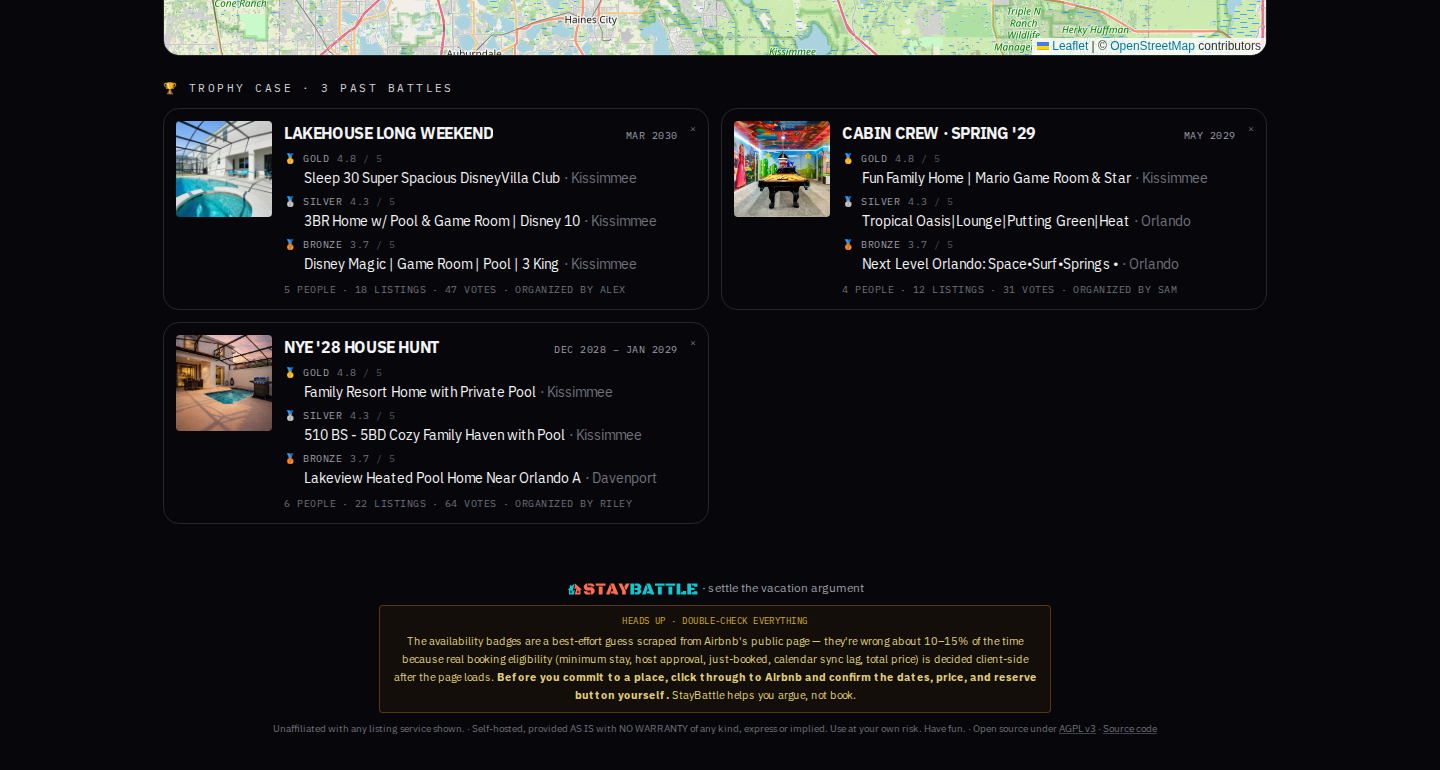
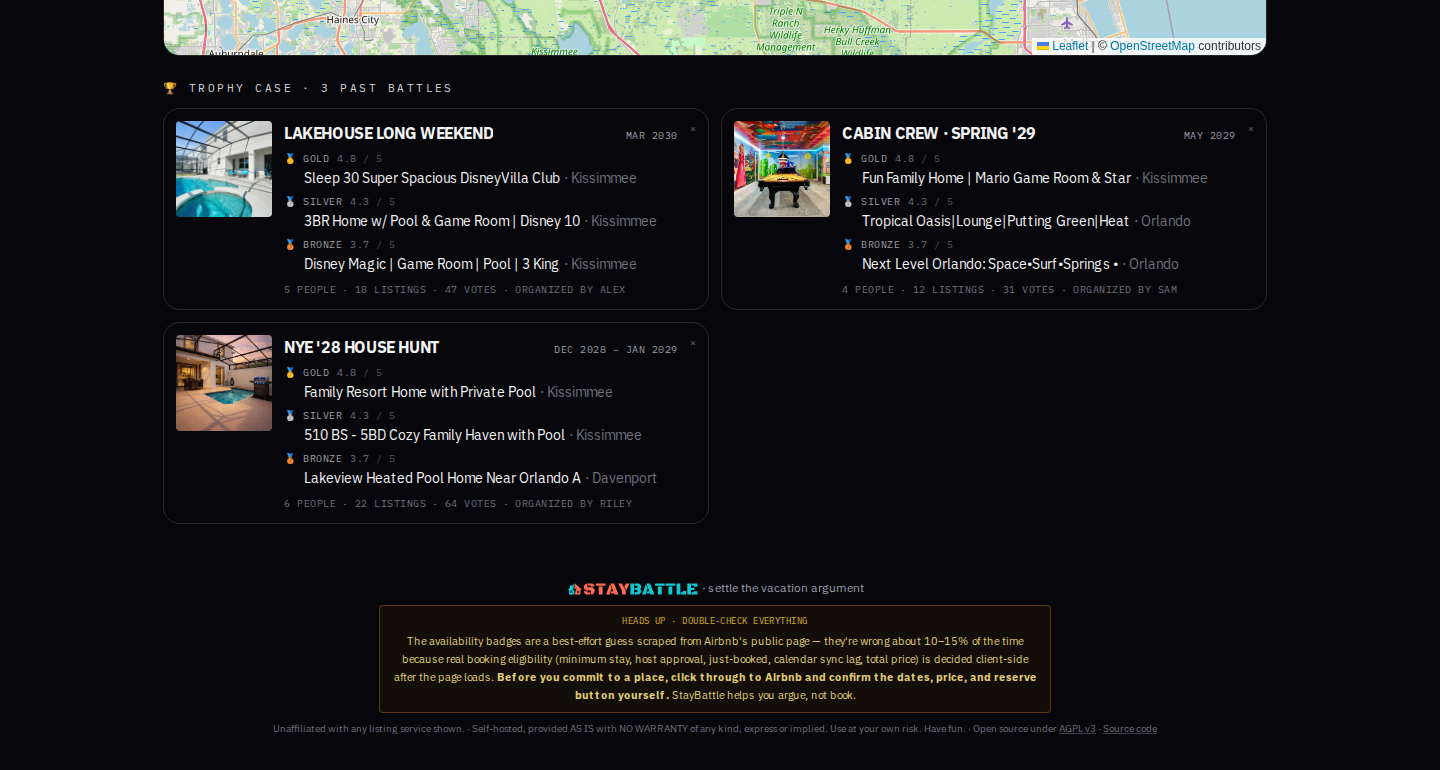
Categorize reference places — color-coded pins + chip-row picker
Drops the single hardcoded "reference" kind in favor of a curated
10-category set in `src/lib/place-categories.ts`:

  theme-park · restaurant · bar · beach · museum · airport ·
  grocery · nature · shopping · other

Drop-a-pin form picks up a chip-row picker (default "Other"); markers
render as color-coded dots with the category emoji centered. Legacy
rows with kind = "reference" resolve to "Other" through
`resolvePlaceCategory()` so no migration is needed.

Server `addPlaceAtCoords` whitelists `kind` against the known set —
unknown values fall back to "other" so a bad client can't poison the
row.

Seed: ten Orlando-area reference places across all categories so the
map screenshot shows the new color variety.

Changed region(s): [[0.0938, 0.0, 0.9062, 0.0935]]

diff --git a/src/components/MapView.tsx b/src/components/MapView.tsx
@@ -11,6 +11,11 @@ import { withTripDates, type TripDates } from "@/lib/trip";
 import { shortDisplayName } from "@/lib/title";
 import { confirmDialog } from "./Modal";
 import type { ListingWithStats, Place } from "@/lib/types";
+import {
+  PLACE_CATEGORIES,
+  resolvePlaceCategory,
+  type PlaceCategoryId,
+} from "@/lib/place-categories";
 
 // Default fallback icon (the standard leaflet teardrop) — only used if a
 // listing has no availability status info at all.
@@ -58,20 +63,31 @@ function listingPin(status: "available" | "unavailable" | "unknown") {
   });
 }
 
-// Reference-place marker. NOTE: divIcon's `html` is interpreted as raw HTML —
-// only put static markup here. Never interpolate user-controlled strings into
-// this template or you've created a stored-XSS sink.
-const PlaceIcon = L.divIcon({
-  className: "",
-  html: `<div style="
-    width: 18px; height: 18px; border-radius: 50%;
-    background: #fbbf24; border: 2px solid white;
-    box-shadow: 0 0 0 1px rgba(0,0,0,0.25);
-  "></div>`,
-  iconSize: [18, 18],
-  iconAnchor: [9, 9],
-  popupAnchor: [0, -10],
-});
+// Reference-place marker. The fill color comes from the curated category
+// list — only the color hex is interpolated, and it's drawn from the
+// hard-coded PLACE_CATEGORIES table (no user input ever flows into this
+// HTML, so the stored-XSS sink is closed by construction).
+const PLACE_ICON_CACHE = new Map<string, L.DivIcon>();
+function placeIcon(kind: string | null | undefined): L.DivIcon {
+  const cat = resolvePlaceCategory(kind);
+  const cached = PLACE_ICON_CACHE.get(cat.id);
+  if (cached) return cached;
+  const icon = L.divIcon({
+    className: "",
+    html: `<div style="
+      width: 22px; height: 22px; border-radius: 50%;
+      background: ${cat.color}; border: 2px solid white;
+      box-shadow: 0 0 0 1px rgba(0,0,0,0.25);
+      display: flex; align-items: center; justify-content: center;
+      font-size: 11px; line-height: 1;
+    ">${cat.emoji}</div>`,
+    iconSize: [22, 22],
+    iconAnchor: [11, 11],
+    popupAnchor: [0, -12],
+  });
+  PLACE_ICON_CACHE.set(cat.id, icon);
+  return icon;
+}
 
 /**
  * Run an initial fit-to-points exactly once when the map first has data,
@@ -193,6 +209,7 @@ export default function MapView({
   const [pendingName, setPendingName] = useState("");
   const [pendingAddress, setPendingAddress] = useState("");
   const [pendingUrl, setPendingUrl] = useState("");
+  const [pendingKind, setPendingKind] = useState<PlaceCategoryId>("other");
   const [isAddingPlace, startAddPlace] = useTransition();
   // Imperative handle so the "fit all" button can refit on demand without
   // triggering automatic refits via useEffect dependencies.
@@ -204,6 +221,7 @@ export default function MapView({
     setPendingName("");
     setPendingAddress("");
     setPendingUrl("");
+    setPendingKind("other");
   };
 
   const cancelPendingPin = () => {
@@ -211,6 +229,7 @@ export default function MapView({
     setPendingName("");
     setPendingAddress("");
     setPendingUrl("");
+    setPendingKind("other");
   };
 
   const submitPendingPin = () => {
@@ -225,6 +244,7 @@ export default function MapView({
         pendingPin.lat,
         pendingPin.lng,
         voter?.name || "",
+        pendingKind,
       );
       if (res.ok) {
         cancelPendingPin();
@@ -378,6 +398,33 @@ export default function MapView({
                   maxLength={500}
                   className="w-full rounded-sm border border-zinc-800 bg-zinc-950 px-2 py-1 text-xs text-zinc-100 placeholder:text-zinc-500 outline-none focus:border-rose-400"
                 />
+                <div
+                  role="radiogroup"
+                  aria-label="Category"
+                  className="flex flex-wrap gap-1"
+                >
+                  {PLACE_CATEGORIES.map((c) => {
+                    const selected = c.id === pendingKind;
+                    return (
+                      <button
+                        key={c.id}
+                        type="button"
+                        role="radio"
+                        aria-checked={selected}
+                        onClick={() => setPendingKind(c.id)}
+                        title={c.label}
+                        className={`inline-flex items-center gap-1 rounded-sm border px-1.5 py-0.5 font-mono text-[10px] uppercase tracking-wider transition ${
+                          selected
+                            ? "border-rose-400 bg-rose-500/15 text-rose-100"
+                            : "border-zinc-800 bg-zinc-950 text-zinc-400 hover:border-zinc-600 hover:text-zinc-200"
+                        }`}
+                      >
+                        <span aria-hidden="true">{c.emoji}</span>
+                        <span>{c.label}</span>
+                      </button>
+                    );
+                  })}
+                </div>
                 <p className="font-mono text-[9px] uppercase tracking-wider text-zinc-500">
                   {pendingPin.lat.toFixed(4)}, {pendingPin.lng.toFixed(4)}
                 </p>
@@ -481,7 +528,7 @@ export default function MapView({
           <Marker
             key={p.id}
             position={[p.latitude, p.longitude]}
-            icon={PlaceIcon}
+            icon={placeIcon(p.kind)}
             title={p.name}
           >
             <Popup>
@@ -494,7 +541,8 @@ export default function MapView({
                 )}
                 <div className="flex flex-col gap-0.5 font-mono text-[10px] uppercase tracking-wider text-zinc-500">
                   <span>
-                    📌 reference pin
+                    <span aria-hidden="true">{resolvePlaceCategory(p.kind).emoji}</span>{" "}
+                    {resolvePlaceCategory(p.kind).label}
                     {p.added_by_name && (
                       <>
                         <span className="mx-1">·</span>added by{" "}

diff --git a/src/lib/place-categories.ts b/src/lib/place-categories.ts
@@ -1,0 +1,61 @@
+/**
+ * Curated category set for dropped reference places on the map.
+ *
+ * Categories drive both the picker in the drop-pin form and the marker
+ * color/emoji on the map, so 30 pins in Orlando still scan as "theme
+ * parks vs. groceries vs. airports" at a glance.
+ *
+ * `id` is what we persist in `places.kind`. The legacy value `"reference"`
+ * predates this list and is treated as `"other"` for display.
+ *
+ * `color` is the marker dot fill. Picked for hue separation at small
+ * sizes — adjacent categories on this list should not look alike.
+ */
+export type PlaceCategoryId =
+  | "theme-park"
+  | "restaurant"
+  | "bar"
+  | "beach"
+  | "museum"
+  | "airport"
+  | "grocery"
+  | "nature"
+  | "shopping"
+  | "other";
+
+export type PlaceCategory = {
+  id: PlaceCategoryId;
+  label: string;
+  emoji: string;
+  /** Marker dot fill, hex. Keep these distinct at 18px. */
+  color: string;
+};
+
+export const PLACE_CATEGORIES: PlaceCategory[] = [
+  { id: "theme-park", label: "Theme park", emoji: "🎢", color: "#a78bfa" },
+  { id: "restaurant", label: "Restaurant", emoji: "🍽", color: "#fb7185" },
+  { id: "bar",        label: "Bar",         emoji: "🍺", color: "#fbbf24" },
+  { id: "beach",      label: "Beach",       emoji: "🏖", color: "#22d3ee" },
+  { id: "museum",     label: "Museum",      emoji: "🏛", color: "#d6d3d1" },
+  { id: "airport",    label: "Airport",     emoji: "✈",  color: "#7dd3fc" },
+  { id: "grocery",    label: "Grocery",     emoji: "🛒", color: "#34d399" },
+  { id: "nature",     label: "Outdoors",    emoji: "🌳", color: "#86efac" },
+  { id: "shopping",   label: "Shopping",    emoji: "🛍", color: "#f0abfc" },
+  { id: "other",      label: "Other",       emoji: "📍", color: "#a1a1aa" },
+];
+
+const BY_ID = new Map(PLACE_CATEGORIES.map((c) => [c.id as string, c]));
+
+/**
+ * Resolve a stored `places.kind` (may be a legacy "reference" or junk from
+ * a hand-edited row) to a known category. Falls back to "other" so the
+ * map and form always have a valid render target.
+ */
+export function resolvePlaceCategory(kind: string | null | undefined): PlaceCategory {
+  if (kind && BY_ID.has(kind)) return BY_ID.get(kind)!;
+  return BY_ID.get("other")!;
+}
+
+export function isKnownPlaceCategoryId(kind: string): kind is PlaceCategoryId {
+  return BY_ID.has(kind);
+}

diff --git a/src/app/actions.ts b/src/app/actions.ts
@@ -38,6 +38,7 @@ import {
   URL_MAX,
   VOTER_ID_MAX,
 } from "@/lib/validate";
+import { isKnownPlaceCategoryId } from "@/lib/place-categories";
 
 export type ActionResult = { ok: true } | { ok: false; error: string };
 export type SignInResult =
@@ -438,6 +439,7 @@ export async function addPlaceAtCoords(
   lat: number,
   lng: number,
   addedByName: string,
+  kind: string = "other",
 ): Promise<ActionResult> {
   const cleanName = cleanString(name, 120);
   if (!cleanName) return { ok: false, error: "Place needs a name" };
@@ -468,6 +470,10 @@ export async function addPlaceAtCoords(
   // Free-text address — capped at 240 chars, no validation. Stored as-is.
   const cleanAddress = address ? cleanString(address, 240) || null : null;
 
+  // Whitelist `kind` — anything not in the curated set falls back to "other"
+  // so a client posting a junk value can't poison the row.
+  const cleanKind = isKnownPlaceCategoryId(kind) ? kind : "other";
+
   if (placeAlreadyExists({ url: cleanUrl, lat, lng })) {
     revalidatePath("/");
     return { ok: true };
@@ -483,7 +489,7 @@ export async function addPlaceAtCoords(
     cleanUrl,
     lat,
     lng,
-    "reference",
+    cleanKind,
     addedBy || null,
   );
 

diff --git a/TODO.md b/TODO.md
@@ -99,10 +99,15 @@ a real "argument-settler" layer.
   voter click the map to add a place with name, optional address, optional
   URL. `addPlaceAtCoords` in `actions.ts` skips geocoding (lat/lng come
   straight from the click).
-- **Categorize**: theme park, restaurant, beach, museum, bar, airport,
-  grocery, etc. Curated picker + free-text. Use different marker colors /
-  icons per category so the map stays readable when 30 pins are on it.
-  Currently `places.kind` is hardcoded to `"reference"` for drop-pins.
+- ~~**Categorize**: theme park, restaurant, beach, museum, bar, airport,
+  grocery, etc.~~ — **DONE.** Curated 10-category set lives in
+  `src/lib/place-categories.ts` (theme-park · restaurant · bar · beach ·
+  museum · airport · grocery · nature · shopping · other). Drop-pin form
+  shows a chip-row picker; markers render as color-coded dots with the
+  category emoji centered. Legacy `kind = "reference"` rows fall back
+  to the "Other" category in the UI without a migration.
+  - **Still open:** free-text category alongside the curated picker, if
+    someone wants a niche tag the curated set doesn't cover.
 - **Notes field** — "this is the one with the good sushi", "kids loved
   this last time", etc. Drop-pin form already has a `url` slot; a free-
   text note would be the natural next field.
